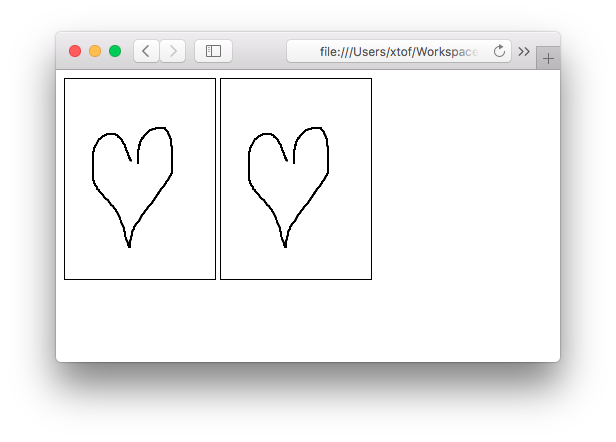
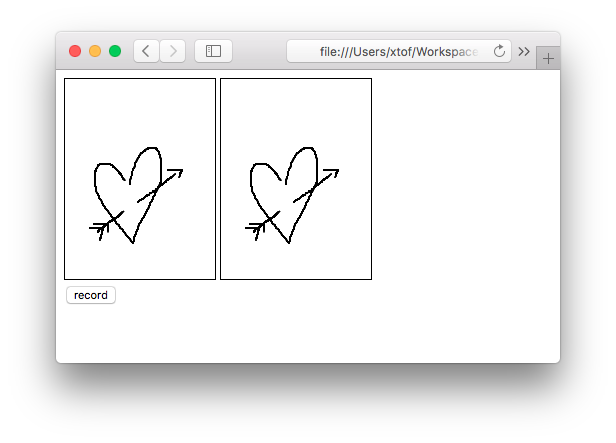
added support for multiple strokes

diff --git a/src/canvas-writer.js b/src/canvas-writer.js
@@ -2,6 +2,11 @@
 // and playback hand-written text.
 // author: Christophe VG <contact@christophe.vg>
 
+// The drawing format consists of pairs of coordinates to move to. Coordinate
+// "U" means pen up, resulting in a move to the next coordinate where the
+// pen is put down again.
+
+
 (function(globals) {
   
   var input = {}, output = {};
@@ -11,43 +16,45 @@
     input.element = document.getElementById(source);
     input.canvas  = input.element.getContext("2d");
     // setup event handlers
-    document.onmousedown = startRecording;
-    document.onmouseup   = stopRecording;
-    document.onmousemove = record;
+    document.onmousedown = penDown;
+    document.onmouseup   = penUp;
+    document.onmousemove = penMove;
     return this;
   }
 
   var recorded = [];
   var recording = false;
 
-  function startRecording(event) {
-    recorded = [];
-    recording = true;
-    clear(input);
-    input.canvas.beginPath();
+  var writing = false;
+
+  function penDown(event) {
+    writing = true;
+    if(recording) {
+      var point = getXY(event);
+      recorded.push(point);
+      input.canvas.beginPath();
+      input.canvas.moveTo(point.x, point.y);
+    }
+  }
+  
+  function penUp(event) {
+    writing = false;
+    if(recording) {
+      recorded.push("U");
+    }
   }
 
-  function record(event) {
+  function penMove(event) {
     if(! recording ) { return; }
-    var point = getXY(event);
-    recorded.push(point);
     // draw for feedback
-    if(recorded.length == 1) {
-      input.canvas.moveTo(point.x, point.y);
-    } else {
+    if(writing) {
+      var point = getXY(event);
+      recorded.push(point);
       input.canvas.lineTo(point.x, point.y);
       input.canvas.stroke();
     }
   }
   
-  function stopRecording(event) {
-    recording = false;
-    // clear output
-    clear(output);
-    // draw recorded on output
-    draw();
-  }
-
   function getXY(e) {
     var x,y;
     // IE?
@@ -91,8 +98,21 @@
     item.canvas.clearRect(0, 0, item.element.width, item.element.height);
   }
 
-  function setSpeed(newSpeed) {
-    speed = newSpeed;
+  function startRecording() {
+    clear(input);
+    recorded  = [];
+    recording = true;
+    penDown   = false;
+  }
+
+  var afterDrawing = null;
+
+  function stopRecording(whenDone) {
+    recording = false;
+    clear(output);
+    afterDrawing = whenDone;
+    draw();
+    console.log(recorded);
   }
 
   var pixel = 0;
@@ -106,17 +126,37 @@
   
   function drawNext() {
     if(pixel < recorded.length) {
-      output.canvas.lineTo(recorded[pixel].x, recorded[pixel].y);
-      output.canvas.stroke();
+      if(recorded[pixel] == "U") {
+        pixel++;
+        if(pixel < recorded.length) {
+          output.canvas.beginPath();
+          output.canvas.moveTo(recorded[pixel].x, recorded[pixel].y);
+        }
+      } else {
+        output.canvas.lineTo(recorded[pixel].x, recorded[pixel].y);
+        output.canvas.stroke();
+      }
       // schedule next
       pixel++;
       setTimeout(drawNext, speed);
+    } else {
+      if(afterDrawing) {
+        afterDrawing();
+        afterDrawing = null;
+      }
     }
+  }
+
+  function setSpeed(newSpeed) {
+    speed = newSpeed;
+    return this;
   }
 
   globals.CanvasWriter = {
     "useInput"  : useInput,
     "useOutput" : useOutput,
-    "setSpeed"  : setSpeed
+    "setSpeed"  : setSpeed,
+    "record"    : startRecording,
+    "stop"      : stopRecording
   }
 })(window);

diff --git a/examples/record-play.html b/examples/record-play.html
@@ -17,11 +17,29 @@
 <body>
   <canvas id="input" width="150" height="200"></canvas>
   <canvas id="output" width="150" height="200"></canvas>
+  <br>
+  <input  id="action" type="button" value="record" onclick="toggle(this);">
   <script>
+    var writer;
     window.onload = function() { 
-      CanvasWriter.useInput("input")
-                  .useOutput("output")
-                  .setSpeed(25);
+      writer = CanvasWriter.useInput("input")
+                           .useOutput("output")
+                           .setSpeed(25);
+    }
+    function toggle(button) {
+      if(button.value == "record") {
+        button.value = "stop";
+        record();
+      } else {
+        stopRecording(function() { button.value = "record"; });
+      }
+    }
+    function record() {
+      writer.record();
+    }
+    
+    function stopRecording(whenDone) {
+      writer.stop(whenDone);
     }
   </script>
 </body>

diff --git a/README.md b/README.md
@@ -8,6 +8,6 @@ Using CanvasWriter you can record and replay things you draw on an HTML5 Canvas 
 
 # Record & Play
 
-In its most basic form, that's what it does. Open `examples/record-play.html` in a browser (only Safari is tested right now) and draw something inside the left rectangle on the screen. CanvasWriter will record it and display it when you release your mouse or finger.
+In its most basic form, that's what it does. Open `examples/record-play.html` in a browser (only Safari is tested right now), push the `record` button and draw something inside the left rectangle on the screen. When done, push the `stop` button and watch CanvasWriter _write_. In the Javascript console, the recorded data is logged.
 
 ![Record & Play](assets/record-play.png)
